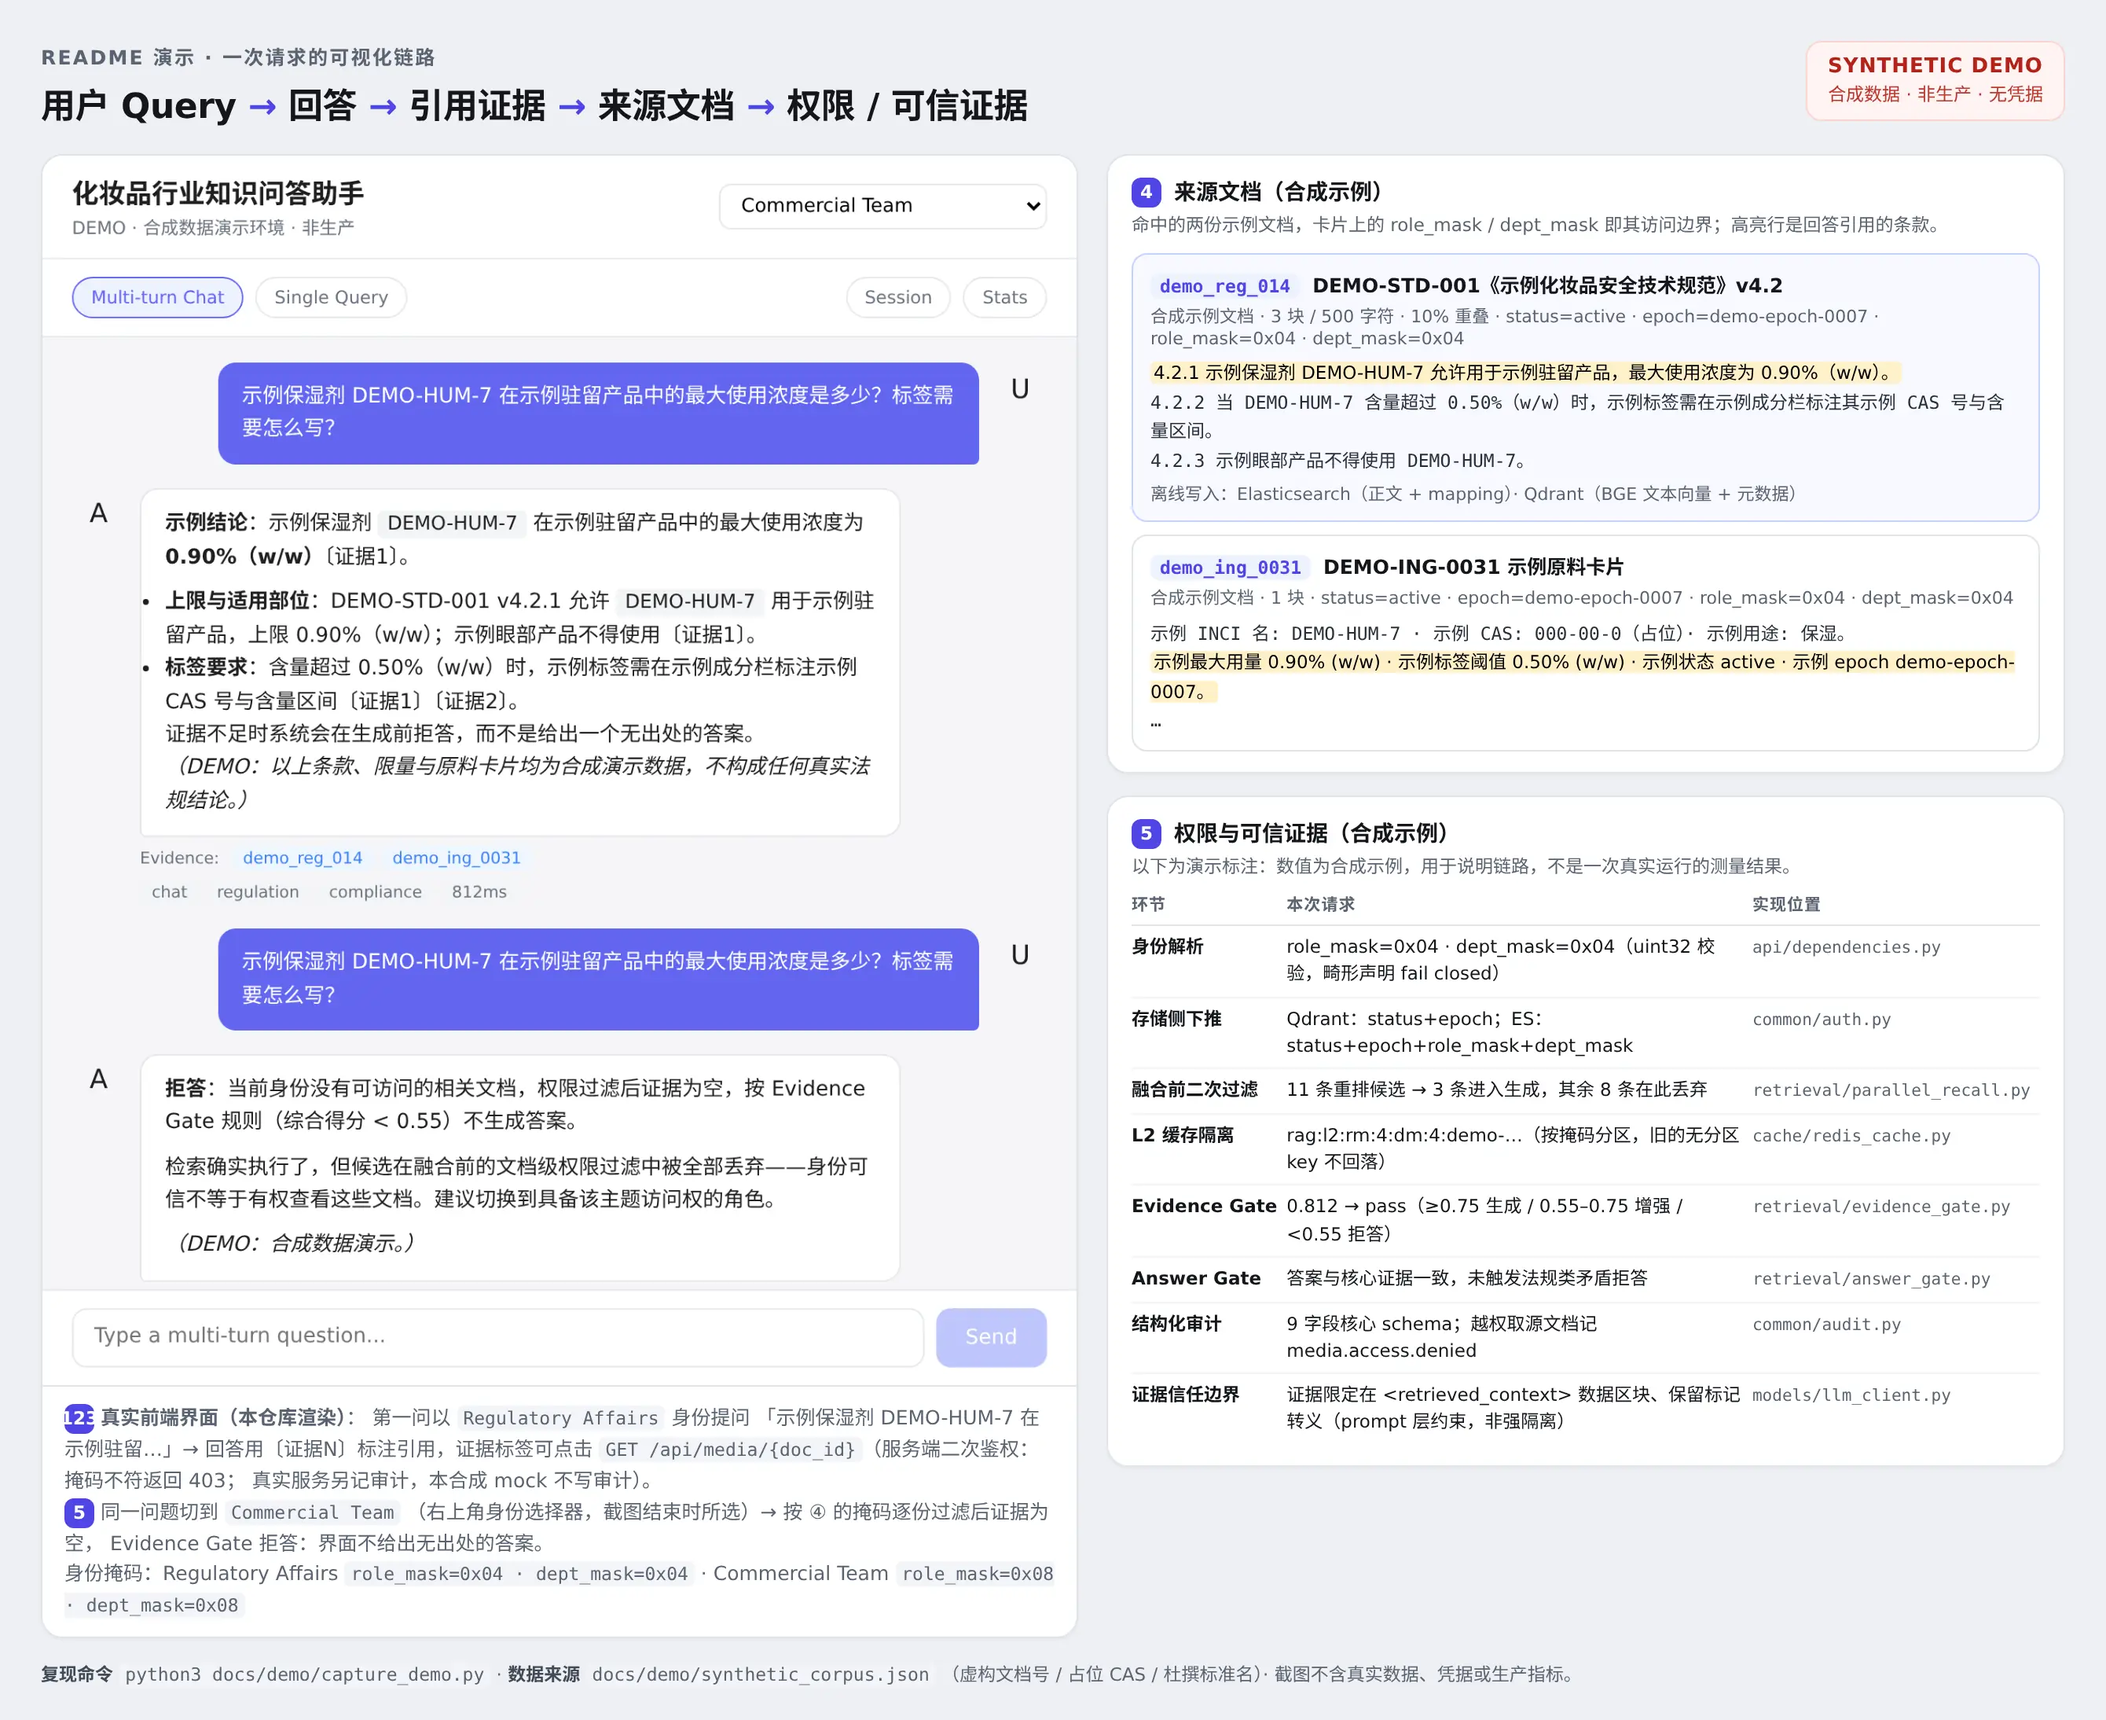
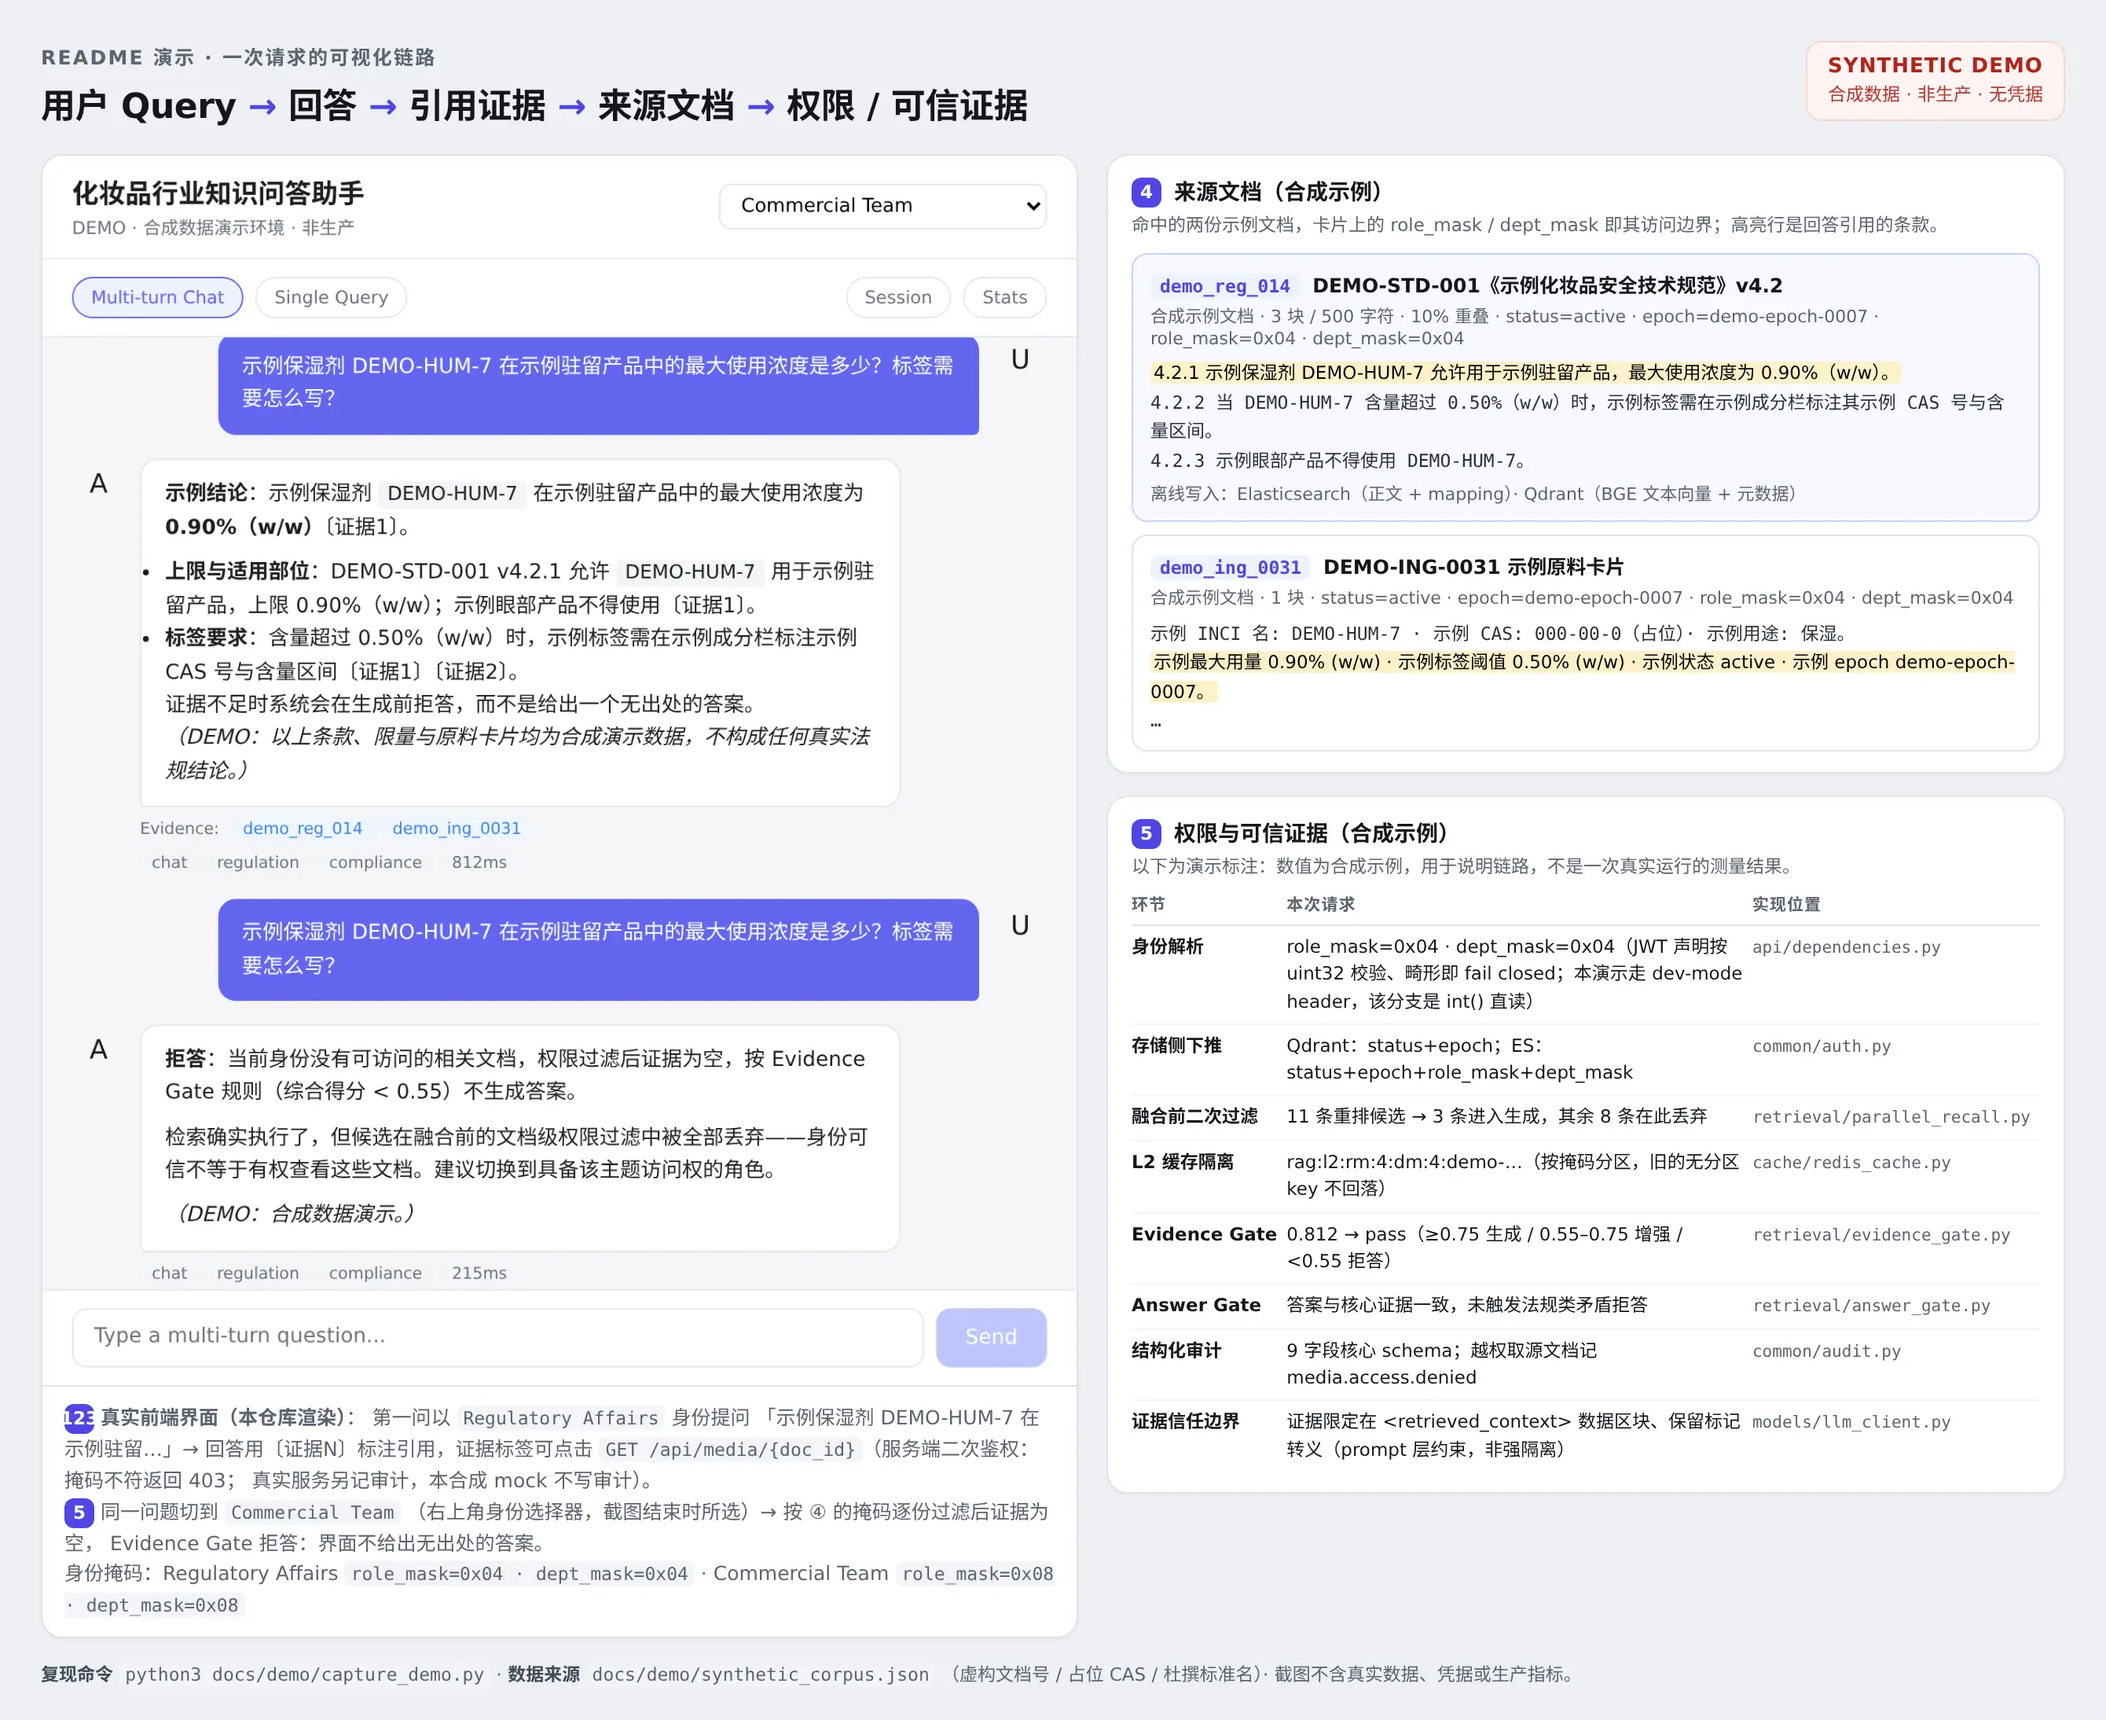
fix(demo): stop the caption claiming JWT validation on the dev-header path
Sixteenth Codex pass, one P2 on the walkthrough's identity row.

It read "uint32 校验，畸形声明 fail closed" next to a pointer at the identity
resolver, while the requests this figure demonstrates arrive as dev-mode
`X-Role-Mask` / `X-Dept-Mask` headers — and `common/auth.py` parses those with a
bare `int(...)` and no range check. `-1` is accepted there, and `-1 & mask`
overlaps every document mask, so the malformed input the caption says is rejected
is not rejected on that path.

The uint32 validation is real, but it is on the JWT-claims branch. The caption
now names both: JWT claims are validated and fail closed, and the dev-header
branch this demo uses is an int() read. That also stops the mock's
deliberately-stricter header handling from reading as a guarantee the service
provides.

Tightening `common/auth.py` would be the other way to close this, and the better
fix in the abstract — but it changes request-path behaviour, which is outside a
documentation PR and outside what this branch has touched. The caption is the
part that was wrong, so the caption is what changes.

The hero image is regenerated, since the caption is rendered into it.

Four tests, and the third is the one that keeps this honest in both directions:
it asserts `common/auth.py`'s dev branch still is an unbounded `int()`. If that
path is ever bounded, the test fails and asks for the caption to be updated —
rather than leaving the figure quietly stale the other way, which is the failure
this round corrected.
[…]

diff --git a/tests/test_demo_corpus_rbac_consistency.py b/tests/test_demo_corpus_rbac_consistency.py
@@ -461,3 +461,63 @@ def test_both_endpoints_validate_against_the_real_response_models(demo_server):
     parsed = ChatResponse(**chat)
     assert parsed.evidence_doc_ids == EVIDENCE_IDS
     assert parsed.history and parsed.history[-1].role == "assistant"
+
+
+# ── the walkthrough caption must not borrow another path's guarantee ─────
+def _identity_caption() -> str:
+    for row in CORPUS["trace"]["rows"]:
+        if row["step"] == "身份解析":
+            return row["demo"]
+    raise AssertionError("the trace table has no 身份解析 row")
+
+
+def test_the_identity_caption_does_not_claim_uint32_checks_on_the_dev_header_path():
+    """The regression: the caption read "uint32 校验，畸形声明 fail closed" beside
+    a pointer to the identity resolver, while the requests the demo actually
+    makes use the dev-mode headers — and `common/auth.py` parses those with a
+    bare `int(...)`, with no range check. `-1` passes, and `-1 & mask` overlaps
+    every document mask.
+
+    The uint32 validation is real, but it is on the JWT-claims path. Attributing
+    it to the demonstrated path makes the mock's stricter-than-production
+    behaviour look like a guarantee the service provides.
+    """
+    caption = _identity_caption()
+
+    assert "dev-mode header" in caption, caption
+    assert "int()" in caption, caption
+
+
+def test_the_identity_caption_still_credits_the_jwt_path_for_uint32_validation():
+    """Correcting the claim must not delete the part that is true."""
+    assert "uint32" in _identity_caption(), _identity_caption()
+
+
+def test_the_dev_header_path_really_is_an_unbounded_int_conversion():
+    """The caption's correction is only honest if the code matches it.
+
+    Pins the current behaviour of `common/auth.py`'s dev-mode branch so that a
+    future fix to that path has to update the caption in the same change, rather
+    than leaving the figure quietly stale in the other direction.
+    """
+    import inspect
+
+    from common.auth import parse_identity
+
+    source = inspect.getsource(parse_identity)
+    dev_branch = source[source.index("# 2. Dev-mode headers") :]
+
+    assert "int(role_str)" in dev_branch, "the dev-header branch no longer parses headers directly"
+    assert "0xFFFFFFFF" not in dev_branch, (
+        "the dev-header branch now bounds the mask; update the walkthrough caption, "
+        "which currently says this path is an unbounded int() read"
+    )
+
+
+def test_the_mock_fixture_is_stricter_than_the_service_and_says_so():
+    """The fixture deliberately collapses a bad header to 0. That is a fixture
+    choice, and the module has to own it rather than let the figure imply the
+    service behaves the same way."""
+    source = (DEMO_DIR / "mock_api.py").read_text(encoding="utf-8")
+
+    assert "stricter on purpose" in source

diff --git a/README.md b/README.md
@@ -95,7 +95,7 @@ Runtime version `2.3.0`（`config.json` → `system.version`）。CI 配置见 `
 
 | 口径 | 事实 |
 |---|---|
-| **仓库规模（可复核）** | 246 个 tracked Python 文件 / 64,675 行；86 个定义了测试的测试文件、1,666 个 `def test_` 函数，`pytest --collect-only` 展开参数化后共 **1,978 个用例**；CI 覆盖 Python 3.10 与 3.11 |
+| **仓库规模（可复核）** | 246 个 tracked Python 文件 / 64,735 行；86 个定义了测试的测试文件、1,670 个 `def test_` 函数，`pytest --collect-only` 展开参数化后共 **1,982 个用例**；CI 覆盖 Python 3.10 与 3.11 |
 | **已实现且有测试覆盖**（`REPO_VERIFIED`） | FastAPI 主链路、离线管线全流程、加权 RRF、两级重排、双 Gate、4B/14B 路由契约、RS256 认证、uint32 RBAC、检索信任边界、指标端点、结构化审计、性能产物**框架**、告警规则、Grafana JSON、SLO/Runbook 文档、OTLP exporter 实现、检索 benchmark **框架** |
 | **框架 ≠ 结果** | 检索 benchmark（Recall@1/3/5/10、HitRate@1/3/5/10、MRR@10、NDCG@10）与性能产物七文件契约都是 `REPO_VERIFIED`（框架）/ `PENDING`（结果）——仓库内**没有任何可复现的真实 benchmark artifact**，因此全仓库不引用任何检索指标数字 |
 | **性能数字** | **本仓库没有可复现的 QPS / 延迟 benchmark 结果。** 仓库中的性能数值仅允许在 `HISTORICAL_PRODUCTION`（历史生产观测，如 10–15 QPS）、`DESIGN_TARGET`（SLO / 告警阈值）或 `SYNTHETIC DEMO`（README 演示夹具中的合成值）三类明确语义下出现，**均不得表述为本仓库实测结果**；5 个 SLO 目标与告警阈值都是 `DESIGN_TARGET`，不是实测 |
@@ -257,7 +257,7 @@ python3 scripts/check_repo_consistency.py
 
 **Q2 · 系统规模有多大？**
 分两个口径，不能混：
-- **本仓库可复核规模**：246 个 Python 文件 / 64,675 行 / 86 个定义了测试的测试文件 / 1,978 个收集到的测试用例，CI 覆盖 Python 3.10 与 3.11。
+- **本仓库可复核规模**：246 个 Python 文件 / 64,735 行 / 86 个定义了测试的测试文件 / 1,982 个收集到的测试用例，CI 覆盖 Python 3.10 与 3.11。
 - **历史生产规模**（`HISTORICAL_PRODUCTION`，不可由本仓库复现）：3000+ 文档、5000+ 图片、1500+ 产品、2000+ 成分、8 大法规体系、200+ 内部用户、高峰短时 10–15 QPS、日均 1500+ 请求，RTX A5000 ×2 推理，后阶段完成 Qwen2.5 → Qwen3-14B/4B 灰度迁移。
 本仓库**没有任何 benchmark artifact**，所以我不给本仓库报任何 QPS 或延迟数字。
 
